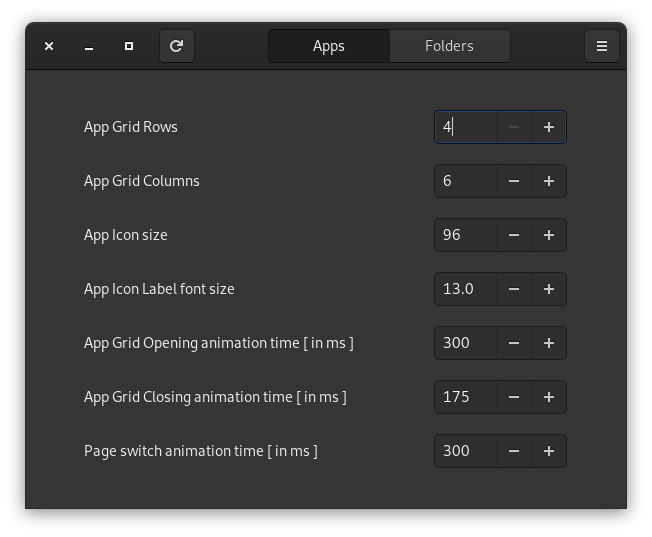
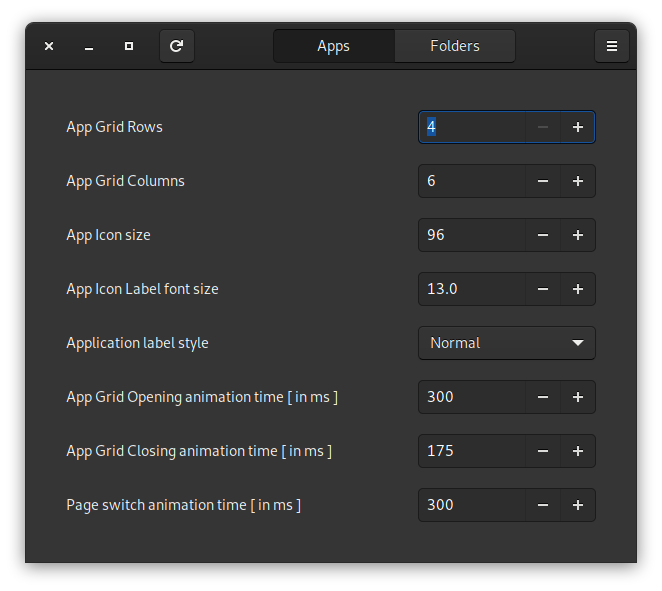
Version 1.03 Simplified code.

diff --git a/app-grid-tweaks@Selenium-H/extension.js b/app-grid-tweaks@Selenium-H/extension.js
@@ -1,6 +1,6 @@
 /*
 
-Version 1.02
+Version 1.03
 ============
  
 */
@@ -71,24 +71,7 @@ class AppGridTweaks {
     IconGrid.ANIMATION_TIME_OUT = this.prefs.get_int("close-animation-time");
     IconGrid.PAGE_SWITCH_TIME   = this.prefs.get_int("page-switch-animation-time");
     
-    MainAppDisplay._grid.style = "column-spacing: "+this.iconSize*0.35+"px; row-spacing: "+this.iconSize*0.35+"px; font-size: "+this.prefs.get_double("app-icon-font-size")+"px;"; 
-    
-    switch(this.prefs.get_string("label-style")) {
-      case "bold":
-        MainAppDisplay._grid.style += "font-weight: bold;";
-        break;
-      case "boldwithshadow":
-        MainAppDisplay._grid.style += "font-weight: bold; text-shadow: 2px 3px 3px #000000, 2px 3px 3px #000000;";
-        break;
-      case "normalwithshadow":
-        MainAppDisplay._grid.style += "font-weight: normal; text-shadow: 2px 3px 3px #000000, 2px 3px 3px #000000;";
-        break;      
-      default:
-      case "normal":
-        MainAppDisplay._grid.style += "font-weight: normal;";
-        break;
-    }
-    
+    MainAppDisplay._grid.style = "column-spacing: "+this.iconSize*0.35+"px; row-spacing: "+this.iconSize*0.35+"px; font-size: "+this.prefs.get_double("app-icon-font-size")+"px;"+this.prefs.get_string("label-style"); 
     MainAppDisplay._grid.layout_manager.rows_per_page = this.prefs.get_int("appgrid-max-rows");
     MainAppDisplay._grid.layout_manager.columns_per_page = this.prefs.get_int("appgrid-max-columns"); 
     MainAppDisplay._grid.layout_manager.fixed_icon_size = this.iconSize;
@@ -113,7 +96,6 @@ class AppGridTweaks {
     MainAppDisplay._grid.layout_manager.rows_per_page = this.maxRows;
     MainAppDisplay._grid.layout_manager.columns_per_page = this.maxColumns; 
     MainAppDisplay._grid.layout_manager.fixed_icon_size = -1;
-    MainAppDisplay._scrollView.style = "";
     this.iconSize = MainAppDisplay._grid.layout_manager._findBestIconSize();
     for (const appIcon of MainAppDisplay._grid.layout_manager._container) {
       appIcon.icon.setIconSize(this.iconSize); 

diff --git a/app-grid-tweaks@Selenium-H/prefs.js b/app-grid-tweaks@Selenium-H/prefs.js
@@ -1,6 +1,6 @@
 /*
 
-Version 1.02
+Version 1.03
 ============
  
 */
@@ -169,6 +169,8 @@ const ExtensionResetButton_AppGridTweaksExtension =  new GObject.Class({
     settings.reset("appgrid-max-columns");
     settings.reset("appgrid-icon-size");
     settings.reset("app-icon-font-size");
+    settings.reset("label-style");
+    
     settings.reset("folder-max-rows");
     settings.reset("folder-max-columns");
     settings.reset("folder-icon-size");
@@ -285,7 +287,7 @@ const PrefsWindowForAppGrid_AppGridTweaksExtension =  new GObject.Class({
     this.prefTime("appgrid-max-columns",        pos++, 4,  20,    1  );
     this.prefTime("appgrid-icon-size",          pos++, 32, 256,   1  );
     this.prefDouble("app-icon-font-size",       pos++, 0,  20,    0.1);    
-    this.prefCombo("label-style",               pos++, [ "normal", "normalwithshadow", "bold", "boldwithshadow" ], [ _("Normal"), _("Normal with Shadow"), _("Bold"), _("Bold with Shadow") ] );        
+    this.prefCombo("label-style",               pos++, [ "font-weight: normal;", "font-weight: normal; text-shadow: 2px 3px 3px #000000, 2px 3px 3px #000000;", "font-weight: bold;", "font-weight: bold; text-shadow: 2px 3px 3px #000000, 2px 3px 3px #000000;" ], [ _("Normal"), _("Normal with Shadow"), _("Bold"), _("Bold with Shadow") ] );        
     this.prefTime("open-animation-time",        pos++, 1,  10000, 1  );
     this.prefTime("close-animation-time",       pos++, 1,  10000, 1  );
     this.prefTime("page-switch-animation-time", pos++, 1,  10000, 1  );
